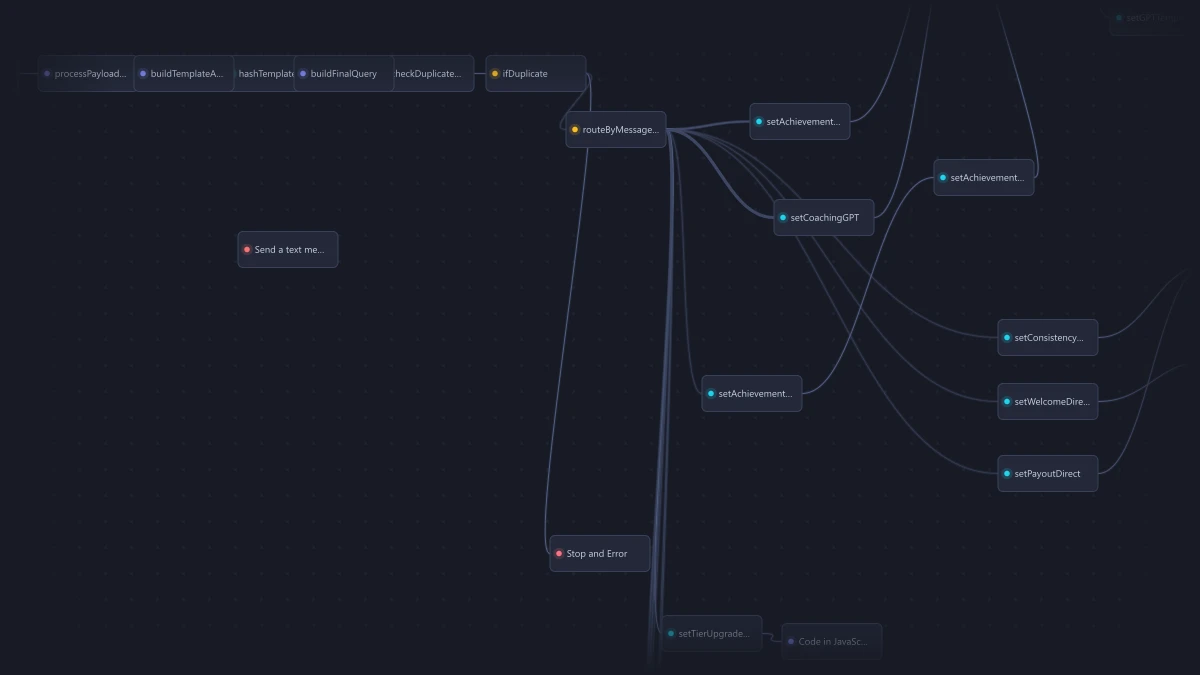
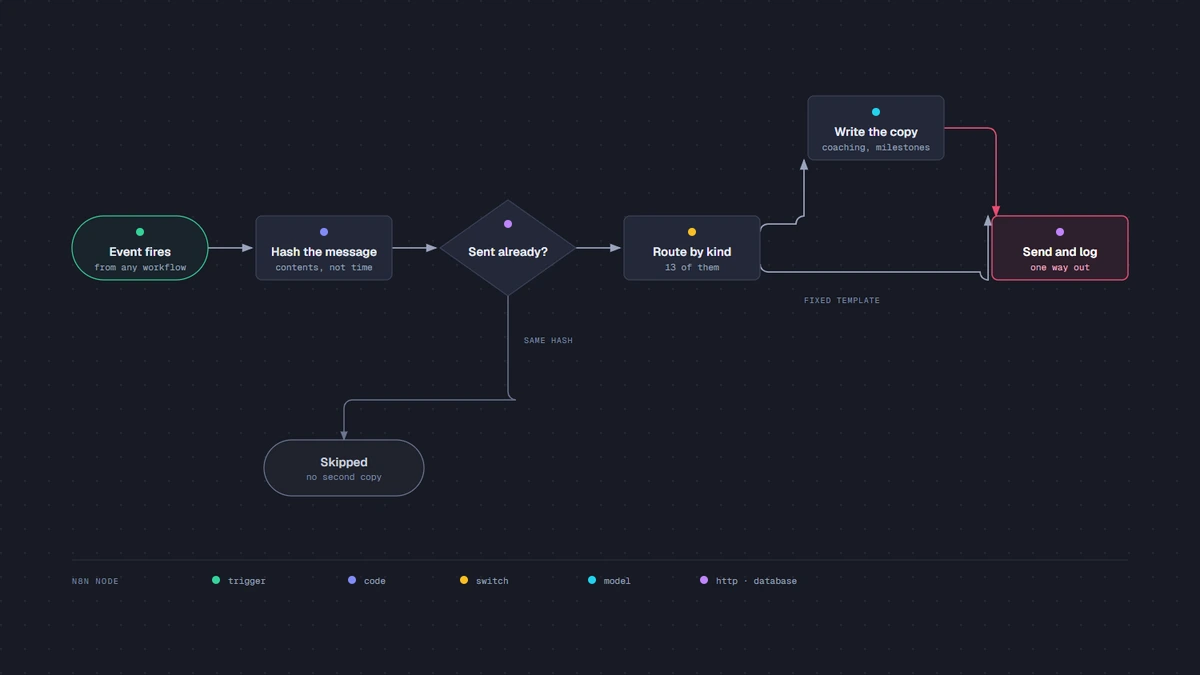
redraw the attribution and messaging diagrams

diff --git a/scripts/diagrams/messaging-engine.html b/scripts/diagrams/messaging-engine.html
@@ -1,0 +1,113 @@
+<!DOCTYPE html>
+<html lang="en">
+<head>
+  <meta charset="UTF-8">
+  <title>Messaging engine</title>
+  <link href="https://fonts.googleapis.com/css2?family=Geist:wght@400;500;600&family=Geist+Mono:wght@400;500;600&display=swap" rel="stylesheet">
+  <style>
+    *, *::before, *::after { box-sizing: border-box; margin: 0; padding: 0; }
+    body { background: #171a24; font-family: 'Geist', system-ui, sans-serif; }
+    svg#d { width: 1200px; height: 675px; display: block; }
+  </style>
+</head>
+<body>
+  <svg id="d" viewBox="0 0 1200 675" xmlns="http://www.w3.org/2000/svg"
+       role="img" aria-labelledby="msg-title msg-desc">
+    <title id="msg-title">Messaging engine</title>
+    <desc id="msg-desc">Any workflow can ask for a notification. The request is hashed and checked against what has already gone out, routed to one of thirteen message types, given copy either from a fixed template or from a language model, and sent as one WhatsApp template that is logged on the way out.</desc>
+
+    <defs>
+      <marker id="arrow" markerWidth="8" markerHeight="6" refX="7" refY="3" orient="auto"><polygon points="0 0, 8 3, 0 6" fill="#9aa4bd"/></marker>
+      <marker id="arrow-accent" markerWidth="8" markerHeight="6" refX="7" refY="3" orient="auto"><polygon points="0 0, 8 3, 0 6" fill="#ea4b71"/></marker>
+      <marker id="arrow-soft" markerWidth="8" markerHeight="6" refX="7" refY="3" orient="auto"><polygon points="0 0, 8 3, 0 6" fill="#6b7590"/></marker>
+      <pattern id="dots" width="24" height="24" patternUnits="userSpaceOnUse"><circle cx="1" cy="1" r="1" fill="rgba(232,236,245,0.07)"/></pattern>
+    </defs>
+
+    <rect width="100%" height="100%" fill="#171a24"/>
+    <rect width="100%" height="100%" fill="url(#dots)"/>
+
+    <!-- spine -->
+    <line x1="208" y1="248" x2="252" y2="248" stroke="#9aa4bd" stroke-width="1.4" marker-end="url(#arrow)"/>
+    <line x1="392" y1="248" x2="436" y2="248" stroke="#9aa4bd" stroke-width="1.4" marker-end="url(#arrow)"/>
+    <line x1="576" y1="248" x2="620" y2="248" stroke="#9aa4bd" stroke-width="1.4" marker-end="url(#arrow)"/>
+
+    <!-- the split: some types get written copy, the rest use a fixed template -->
+    <path d="M760,232 a8,8 0 0 1 8,-8 H796 a8,8 0 0 1 8,-8 V160"
+          fill="none" stroke="#9aa4bd" stroke-width="1.4" marker-end="url(#arrow)"/>
+    <path d="M944,128 H988 a8,8 0 0 1 8,8 V216"
+          fill="none" stroke="#ea4b71" stroke-width="1.4" marker-end="url(#arrow-accent)"/>
+    <path d="M760,264 a8,8 0 0 0 8,8 H980 a8,8 0 0 0 8,8 V216"
+          fill="none" stroke="#9aa4bd" stroke-width="1.4" marker-end="url(#arrow)"/>
+
+    <rect x="800" y="292" width="88" height="14" rx="2" fill="#171a24"/>
+    <text x="804" y="303" fill="#7f8aa5" font-size="8" font-family="'Geist Mono', monospace" letter-spacing="0.08em">FIXED TEMPLATE</text>
+
+    <!-- already-sent exit -->
+    <path d="M508,292 V392 a8,8 0 0 0 8,8 H352 a8,8 0 0 0 -8,8 V440"
+          fill="none" stroke="#6b7590" stroke-width="1.2" marker-end="url(#arrow-soft)"/>
+    <rect x="520" y="332" width="72" height="14" rx="2" fill="#171a24"/>
+    <text x="524" y="343" fill="#7f8aa5" font-size="8" font-family="'Geist Mono', monospace" letter-spacing="0.08em">SAME HASH</text>
+
+    <!-- 1. request -->
+    <rect x="72" y="216" width="136" height="64" rx="32" fill="#171a24"/>
+    <rect x="72" y="216" width="136" height="64" rx="32" fill="rgba(52,211,153,0.06)" stroke="#34d399" stroke-width="1"/>
+    <circle cx="140" cy="232" r="4" fill="#34d399"/>
+    <text x="140" y="256" fill="#e8ecf5" font-size="12" font-weight="600" text-anchor="middle">Event fires</text>
+    <text x="140" y="270" fill="#9aa4bd" font-size="9" font-family="'Geist Mono', monospace" text-anchor="middle">from any workflow</text>
+
+    <!-- 2. hash -->
+    <rect x="256" y="216" width="136" height="64" rx="6" fill="#171a24"/>
+    <rect x="256" y="216" width="136" height="64" rx="6" fill="#232838" stroke="#39415a" stroke-width="1"/>
+    <circle cx="324" cy="232" r="4" fill="#818cf8"/>
+    <text x="324" y="256" fill="#e8ecf5" font-size="12" font-weight="600" text-anchor="middle">Hash the message</text>
+    <text x="324" y="270" fill="#9aa4bd" font-size="9" font-family="'Geist Mono', monospace" text-anchor="middle">contents, not time</text>
+
+    <!-- 3. dedupe gate -->
+    <polygon points="508,200 576,248 508,296 440,248" fill="#171a24"/>
+    <polygon points="508,200 576,248 508,296 440,248" fill="#232838" stroke="#39415a" stroke-width="1"/>
+    <circle cx="508" cy="224" r="4" fill="#c084fc"/>
+    <text x="508" y="256" fill="#e8ecf5" font-size="12" font-weight="600" text-anchor="middle">Sent already?</text>
+
+    <!-- 4. route -->
+    <rect x="624" y="216" width="136" height="64" rx="6" fill="#171a24"/>
+    <rect x="624" y="216" width="136" height="64" rx="6" fill="#232838" stroke="#39415a" stroke-width="1"/>
+    <circle cx="692" cy="232" r="4" fill="#fbbf24"/>
+    <text x="692" y="256" fill="#e8ecf5" font-size="12" font-weight="600" text-anchor="middle">Route by kind</text>
+    <text x="692" y="270" fill="#9aa4bd" font-size="9" font-family="'Geist Mono', monospace" text-anchor="middle">13 of them</text>
+
+    <!-- 5. generated copy (upper branch) -->
+    <rect x="808" y="96" width="136" height="64" rx="6" fill="#171a24"/>
+    <rect x="808" y="96" width="136" height="64" rx="6" fill="#232838" stroke="#39415a" stroke-width="1"/>
+    <circle cx="876" cy="112" r="4" fill="#22d3ee"/>
+    <text x="876" y="136" fill="#e8ecf5" font-size="12" font-weight="600" text-anchor="middle">Write the copy</text>
+    <text x="876" y="150" fill="#9aa4bd" font-size="9" font-family="'Geist Mono', monospace" text-anchor="middle">coaching, milestones</text>
+
+    <!-- 6. FOCAL — one way out, so nothing can send twice -->
+    <rect x="992" y="216" width="136" height="64" rx="6" fill="#171a24"/>
+    <rect x="992" y="216" width="136" height="64" rx="6" fill="rgba(234,75,113,0.10)" stroke="#ea4b71" stroke-width="1.2"/>
+    <circle cx="1060" cy="232" r="4" fill="#c084fc"/>
+    <text x="1060" y="256" fill="#ffffff" font-size="12" font-weight="600" text-anchor="middle">Send and log</text>
+    <text x="1060" y="270" fill="#f3aec0" font-size="9" font-family="'Geist Mono', monospace" text-anchor="middle">one way out</text>
+
+    <!-- skipped -->
+    <rect x="264" y="440" width="160" height="56" rx="28" fill="#171a24"/>
+    <rect x="264" y="440" width="160" height="56" rx="28" fill="rgba(154,164,189,0.06)" stroke="#6b7590" stroke-width="1"/>
+    <text x="344" y="466" fill="#c8cfdf" font-size="12" font-weight="600" text-anchor="middle">Skipped</text>
+    <text x="344" y="480" fill="#7f8aa5" font-size="9" font-family="'Geist Mono', monospace" text-anchor="middle">no second copy</text>
+
+    <!-- legend -->
+    <line x1="72" y1="560" x2="1128" y2="560" stroke="rgba(232,236,245,0.12)" stroke-width="0.8"/>
+    <text x="72" y="584" fill="#7f8aa5" font-size="8" font-family="'Geist Mono', monospace" letter-spacing="0.14em">N8N NODE</text>
+    <circle cx="216" cy="580" r="4" fill="#34d399"/>
+    <text x="228" y="584" fill="#9aa4bd" font-size="9" font-family="'Geist Mono', monospace">trigger</text>
+    <circle cx="352" cy="580" r="4" fill="#818cf8"/>
+    <text x="364" y="584" fill="#9aa4bd" font-size="9" font-family="'Geist Mono', monospace">code</text>
+    <circle cx="464" cy="580" r="4" fill="#fbbf24"/>
+    <text x="476" y="584" fill="#9aa4bd" font-size="9" font-family="'Geist Mono', monospace">switch</text>
+    <circle cx="592" cy="580" r="4" fill="#22d3ee"/>
+    <text x="604" y="584" fill="#9aa4bd" font-size="9" font-family="'Geist Mono', monospace">model</text>
+    <circle cx="704" cy="580" r="4" fill="#c084fc"/>
+    <text x="716" y="584" fill="#9aa4bd" font-size="9" font-family="'Geist Mono', monospace">http · database</text>
+  </svg>
+</body>
+</html>

diff --git a/scripts/diagrams/sales-attribution.html b/scripts/diagrams/sales-attribution.html
@@ -1,0 +1,107 @@
+<!DOCTYPE html>
+<html lang="en">
+<head>
+  <meta charset="UTF-8">
+  <title>Sales attribution</title>
+  <link href="https://fonts.googleapis.com/css2?family=Geist:wght@400;500;600&family=Geist+Mono:wght@400;500;600&display=swap" rel="stylesheet">
+  <style>
+    *, *::before, *::after { box-sizing: border-box; margin: 0; padding: 0; }
+    body { background: #171a24; font-family: 'Geist', system-ui, sans-serif; }
+    svg#d { width: 1200px; height: 675px; display: block; }
+  </style>
+</head>
+<body>
+  <svg id="d" viewBox="0 0 1200 675" xmlns="http://www.w3.org/2000/svg"
+       role="img" aria-labelledby="attr-title attr-desc">
+    <title id="attr-title">Sales attribution</title>
+    <desc id="attr-desc">A storefront order is normalised, screened for duplicates, matched to a creator by discount code and then by referral link, and only a matched order earns commission and triggers the bonus engines. Duplicates and unmatched orders close cleanly.</desc>
+
+    <defs>
+      <marker id="arrow" markerWidth="8" markerHeight="6" refX="7" refY="3" orient="auto"><polygon points="0 0, 8 3, 0 6" fill="#9aa4bd"/></marker>
+      <marker id="arrow-accent" markerWidth="8" markerHeight="6" refX="7" refY="3" orient="auto"><polygon points="0 0, 8 3, 0 6" fill="#ea4b71"/></marker>
+      <marker id="arrow-soft" markerWidth="8" markerHeight="6" refX="7" refY="3" orient="auto"><polygon points="0 0, 8 3, 0 6" fill="#6b7590"/></marker>
+      <pattern id="dots" width="24" height="24" patternUnits="userSpaceOnUse"><circle cx="1" cy="1" r="1" fill="rgba(232,236,245,0.07)"/></pattern>
+    </defs>
+
+    <rect width="100%" height="100%" fill="#171a24"/>
+    <rect width="100%" height="100%" fill="url(#dots)"/>
+
+    <!-- spine -->
+    <line x1="208" y1="192" x2="252" y2="192" stroke="#9aa4bd" stroke-width="1.4" marker-end="url(#arrow)"/>
+    <line x1="392" y1="192" x2="436" y2="192" stroke="#9aa4bd" stroke-width="1.4" marker-end="url(#arrow)"/>
+    <line x1="576" y1="192" x2="620" y2="192" stroke="#ea4b71" stroke-width="1.4" marker-end="url(#arrow-accent)"/>
+    <line x1="760" y1="192" x2="804" y2="192" stroke="#9aa4bd" stroke-width="1.4" marker-end="url(#arrow)"/>
+    <line x1="944" y1="192" x2="988" y2="192" stroke="#9aa4bd" stroke-width="1.4" marker-end="url(#arrow)"/>
+
+    <!-- the two ways an order closes without earning anything -->
+    <path d="M508,236 V368 a8,8 0 0 0 8,8 H592 a8,8 0 0 1 8,8 V440"
+          fill="none" stroke="#6b7590" stroke-width="1.2" marker-end="url(#arrow-soft)"/>
+    <path d="M692,224 V400 a8,8 0 0 1 -8,8 H656 a8,8 0 0 0 -8,8 V440"
+          fill="none" stroke="#6b7590" stroke-width="1.2" marker-end="url(#arrow-soft)"/>
+
+    <rect x="520" y="276" width="76" height="14" rx="2" fill="#171a24"/>
+    <text x="524" y="287" fill="#7f8aa5" font-size="8" font-family="'Geist Mono', monospace" letter-spacing="0.08em">SEEN BEFORE</text>
+    <rect x="704" y="304" width="72" height="14" rx="2" fill="#171a24"/>
+    <text x="708" y="315" fill="#7f8aa5" font-size="8" font-family="'Geist Mono', monospace" letter-spacing="0.08em">NO CODE HIT</text>
+
+    <!-- 1. order in -->
+    <rect x="72" y="160" width="136" height="64" rx="32" fill="#171a24"/>
+    <rect x="72" y="160" width="136" height="64" rx="32" fill="rgba(52,211,153,0.06)" stroke="#34d399" stroke-width="1"/>
+    <circle cx="140" cy="176" r="4" fill="#34d399"/>
+    <text x="140" y="200" fill="#e8ecf5" font-size="12" font-weight="600" text-anchor="middle">Order placed</text>
+    <text x="140" y="214" fill="#9aa4bd" font-size="9" font-family="'Geist Mono', monospace" text-anchor="middle">storefront webhook</text>
+
+    <!-- 2. normalise -->
+    <rect x="256" y="160" width="136" height="64" rx="6" fill="#171a24"/>
+    <rect x="256" y="160" width="136" height="64" rx="6" fill="#232838" stroke="#39415a" stroke-width="1"/>
+    <circle cx="324" cy="176" r="4" fill="#818cf8"/>
+    <text x="324" y="200" fill="#e8ecf5" font-size="12" font-weight="600" text-anchor="middle">Normalise</text>
+    <text x="324" y="214" fill="#9aa4bd" font-size="9" font-family="'Geist Mono', monospace" text-anchor="middle">basket, codes, buyer</text>
+
+    <!-- 3. dedupe gate -->
+    <polygon points="508,144 576,192 508,240 440,192" fill="#171a24"/>
+    <polygon points="508,144 576,192 508,240 440,192" fill="#232838" stroke="#39415a" stroke-width="1"/>
+    <circle cx="508" cy="168" r="4" fill="#c084fc"/>
+    <text x="508" y="200" fill="#e8ecf5" font-size="12" font-weight="600" text-anchor="middle">New order?</text>
+
+    <!-- 4. FOCAL — the match is what decides whether anyone gets paid -->
+    <rect x="624" y="160" width="136" height="64" rx="6" fill="#171a24"/>
+    <rect x="624" y="160" width="136" height="64" rx="6" fill="rgba(234,75,113,0.10)" stroke="#ea4b71" stroke-width="1.2"/>
+    <circle cx="692" cy="176" r="4" fill="#c084fc"/>
+    <text x="692" y="200" fill="#ffffff" font-size="12" font-weight="600" text-anchor="middle">Match a creator</text>
+    <text x="692" y="214" fill="#f3aec0" font-size="9" font-family="'Geist Mono', monospace" text-anchor="middle">code, then link</text>
+
+    <!-- 5. commission -->
+    <rect x="808" y="160" width="136" height="64" rx="6" fill="#171a24"/>
+    <rect x="808" y="160" width="136" height="64" rx="6" fill="#232838" stroke="#39415a" stroke-width="1"/>
+    <circle cx="876" cy="176" r="4" fill="#c084fc"/>
+    <text x="876" y="200" fill="#e8ecf5" font-size="12" font-weight="600" text-anchor="middle">Record earnings</text>
+    <text x="876" y="214" fill="#9aa4bd" font-size="9" font-family="'Geist Mono', monospace" text-anchor="middle">rate x basket</text>
+
+    <!-- 6. downstream -->
+    <rect x="992" y="160" width="136" height="64" rx="6" fill="#171a24"/>
+    <rect x="992" y="160" width="136" height="64" rx="6" fill="#232838" stroke="#39415a" stroke-width="1"/>
+    <circle cx="1060" cy="176" r="4" fill="#fbbf24"/>
+    <text x="1060" y="200" fill="#e8ecf5" font-size="12" font-weight="600" text-anchor="middle">Wake the bonuses</text>
+    <text x="1060" y="214" fill="#9aa4bd" font-size="9" font-family="'Geist Mono', monospace" text-anchor="middle">tier · velocity</text>
+
+    <!-- closed -->
+    <rect x="568" y="440" width="160" height="56" rx="28" fill="#171a24"/>
+    <rect x="568" y="440" width="160" height="56" rx="28" fill="rgba(154,164,189,0.06)" stroke="#6b7590" stroke-width="1"/>
+    <text x="648" y="466" fill="#c8cfdf" font-size="12" font-weight="600" text-anchor="middle">Closed</text>
+    <text x="648" y="480" fill="#7f8aa5" font-size="9" font-family="'Geist Mono', monospace" text-anchor="middle">no commission owed</text>
+
+    <!-- legend -->
+    <line x1="72" y1="560" x2="1128" y2="560" stroke="rgba(232,236,245,0.12)" stroke-width="0.8"/>
+    <text x="72" y="584" fill="#7f8aa5" font-size="8" font-family="'Geist Mono', monospace" letter-spacing="0.14em">N8N NODE</text>
+    <circle cx="216" cy="580" r="4" fill="#34d399"/>
+    <text x="228" y="584" fill="#9aa4bd" font-size="9" font-family="'Geist Mono', monospace">trigger</text>
+    <circle cx="352" cy="580" r="4" fill="#818cf8"/>
+    <text x="364" y="584" fill="#9aa4bd" font-size="9" font-family="'Geist Mono', monospace">code</text>
+    <circle cx="464" cy="580" r="4" fill="#fbbf24"/>
+    <text x="476" y="584" fill="#9aa4bd" font-size="9" font-family="'Geist Mono', monospace">sub-workflow</text>
+    <circle cx="628" cy="580" r="4" fill="#c084fc"/>
+    <text x="640" y="584" fill="#9aa4bd" font-size="9" font-family="'Geist Mono', monospace">database</text>
+  </svg>
+</body>
+</html>
